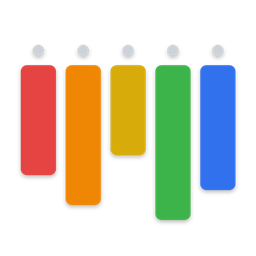
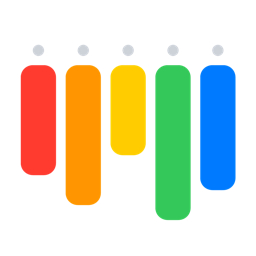
feat: SuperTimetable 아이콘을 재제작된 번들에서 다시 합성
앱 쪽에서 아이콘을 다시 만들었다 (그림자 제거 · 안티에일리어싱 · iOS 시스템색 ·
둥근 모서리 — timetable_ios#506). 사이트의 `/apps/timetable/icon.png` 은 그 번들을
라이트 외관으로 합성한 256px 사본이라 따로 갈아야 옛 그림이 남지 않는다.

`web-app-page` 스킬의 `scripts/app-icon.swift` 로 재생성 —
`swift app-icon.swift <Timetable>/Timetable/SuperTimetable.icon public/apps/timetable/icon.png --size 256 --appearance light`

검증: `render-check.sh` 로 `/ko/apps/` 카드와 `/ko/apps/timetable/` 상세 상단 실기 렌더 확인.

Claude-Session: https://claude.ai/code/session_01WnvrmgRkNY2B14gjKTcjK2

diff --git a/docs/specs/website.md b/docs/specs/website.md
@@ -216,7 +216,7 @@ UTC 자정으로 파싱되기 때문에 현지 시간대로 찍으면 하루 밀
 - PC: 한 줄에 2~3개 카드 / 태블릿: 2개 / 모바일: 1개
 - 카드 클릭 시 해당 앱 상세 페이지로 이동
 
-> **현재 상태 (2026-09-23):** 목록에는 다섯이 보인다 — SuperTimetable·SuperFont(둘 다 2026-09-22 App Store 출시, 상세 페이지 있음)와 SuperMusicNote·SuperPlanner·SuperPDF(iPhone 개발중, `comingSoon: true` 라 상세는 "준비중" 안내 한 장). SuperPlanner 는 2026-09-21 에 아이콘을 넣어(앱 저장소의 `AppIcon-1024.png` 를 256px 로 줄인 `/apps/planner/icon.png`) 카드와 상세 상단에 그려진다. 나머지 둘(SuperMusicNote·SuperPDF)은 아이콘·스샷이 아직 없어 카드에 제목과 뱃지만 나온다. 소개가 준비되면 `comingSoon` 을 지우고 본문(또는 `AppPage.astro` 를 쓰는 전용 페이지)을 채운다. 나머지 앱(mathmaster · notequiz · supertimers)의 페이지와 md 는 지우지 않고 `src/_archive/` 로 옮겨 라우팅에서 뺐다 — 다시 보이게 하려면 `src/pages/{ko,en}/apps/` 와 `src/content/apps/{ko,en}/` 로 되돌리면 된다 (SuperFont 는 App Store 제출용 지원·개인정보 URL 이 필요해 2026-09-18 에 되돌렸다). 앱마다 App Store 에 넣는 페이지가 둘 있다: `/{lang}/apps/<slug>/support/` (지원 URL) 와 `/{lang}/apps/<slug>/privacy/` (개인정보 처리방침 URL). 개인정보 페이지의 "앱 개인정보" 표는 그 앱의 `PrivacyInfo.xcprivacy` 와 같아야 한다. 상세 페이지 `timetable.astro` 는 스토어 소개글(`fastlane/metadata/*/description.txt`)의 섹션 순서를 따르되 **기능 나열이 아니라 편해지는 점**을 리드 문장으로 쓴다.
+> **현재 상태 (2026-09-23):** 목록에는 다섯이 보인다 — SuperTimetable·SuperFont(둘 다 2026-09-22 App Store 출시, 상세 페이지 있음)와 SuperMusicNote·SuperPlanner·SuperPDF(iPhone 개발중, `comingSoon: true` 라 상세는 "준비중" 안내 한 장). SuperPlanner 는 2026-09-21 에 아이콘을 넣어(앱 저장소의 `AppIcon-1024.png` 를 256px 로 줄인 `/apps/planner/icon.png`) 카드와 상세 상단에 그려진다. SuperTimetable 아이콘(`/apps/timetable/icon.png`)은 2026-09-23 에 앱 쪽 아이콘 재제작(그림자 제거·iOS 시스템색·둥근 모서리)에 맞춰 `SuperTimetable.icon` 번들에서 다시 합성했다. 나머지 둘(SuperMusicNote·SuperPDF)은 아이콘·스샷이 아직 없어 카드에 제목과 뱃지만 나온다. 소개가 준비되면 `comingSoon` 을 지우고 본문(또는 `AppPage.astro` 를 쓰는 전용 페이지)을 채운다. 나머지 앱(mathmaster · notequiz · supertimers)의 페이지와 md 는 지우지 않고 `src/_archive/` 로 옮겨 라우팅에서 뺐다 — 다시 보이게 하려면 `src/pages/{ko,en}/apps/` 와 `src/content/apps/{ko,en}/` 로 되돌리면 된다 (SuperFont 는 App Store 제출용 지원·개인정보 URL 이 필요해 2026-09-18 에 되돌렸다). 앱마다 App Store 에 넣는 페이지가 둘 있다: `/{lang}/apps/<slug>/support/` (지원 URL) 와 `/{lang}/apps/<slug>/privacy/` (개인정보 처리방침 URL). 개인정보 페이지의 "앱 개인정보" 표는 그 앱의 `PrivacyInfo.xcprivacy` 와 같아야 한다. 상세 페이지 `timetable.astro` 는 스토어 소개글(`fastlane/metadata/*/description.txt`)의 섹션 순서를 따르되 **기능 나열이 아니라 편해지는 점**을 리드 문장으로 쓴다.
 
 **레이아웃:**
 
